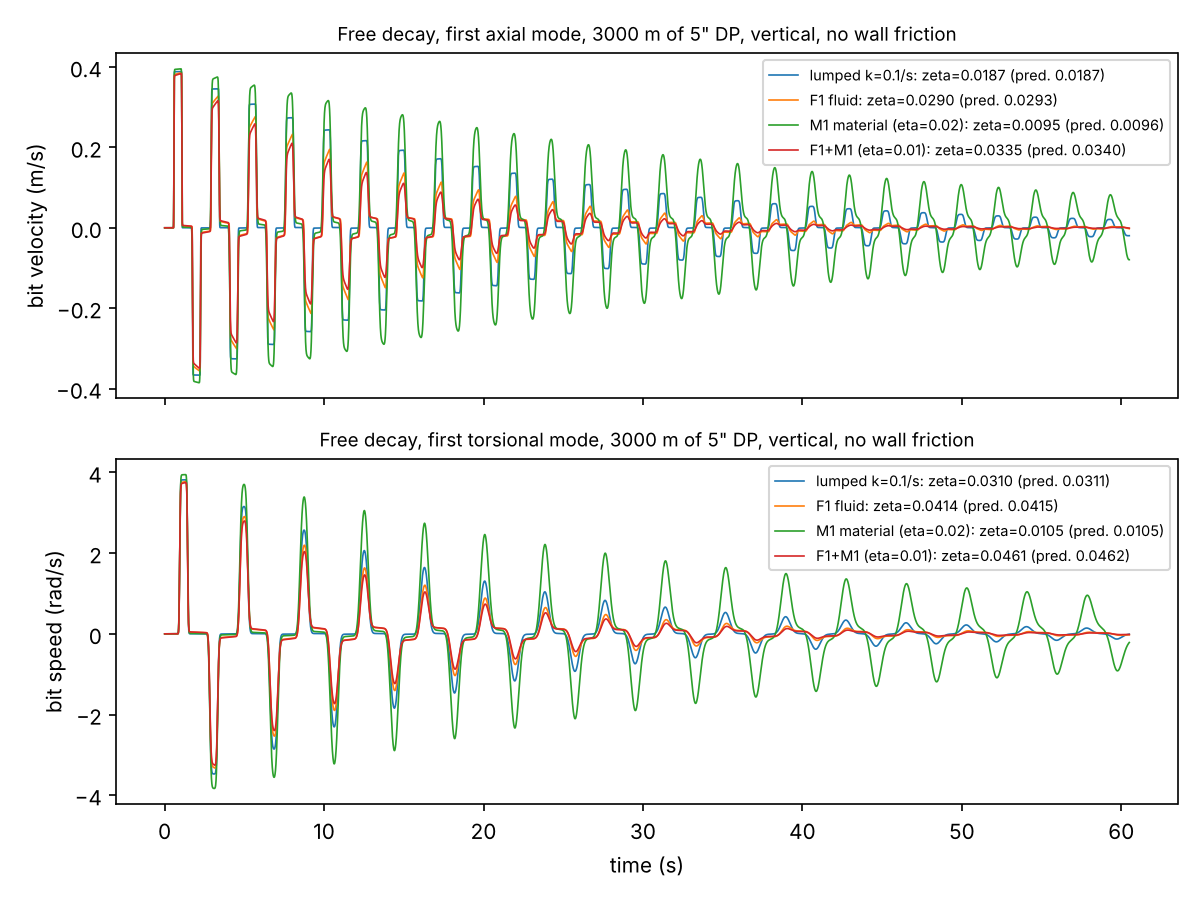
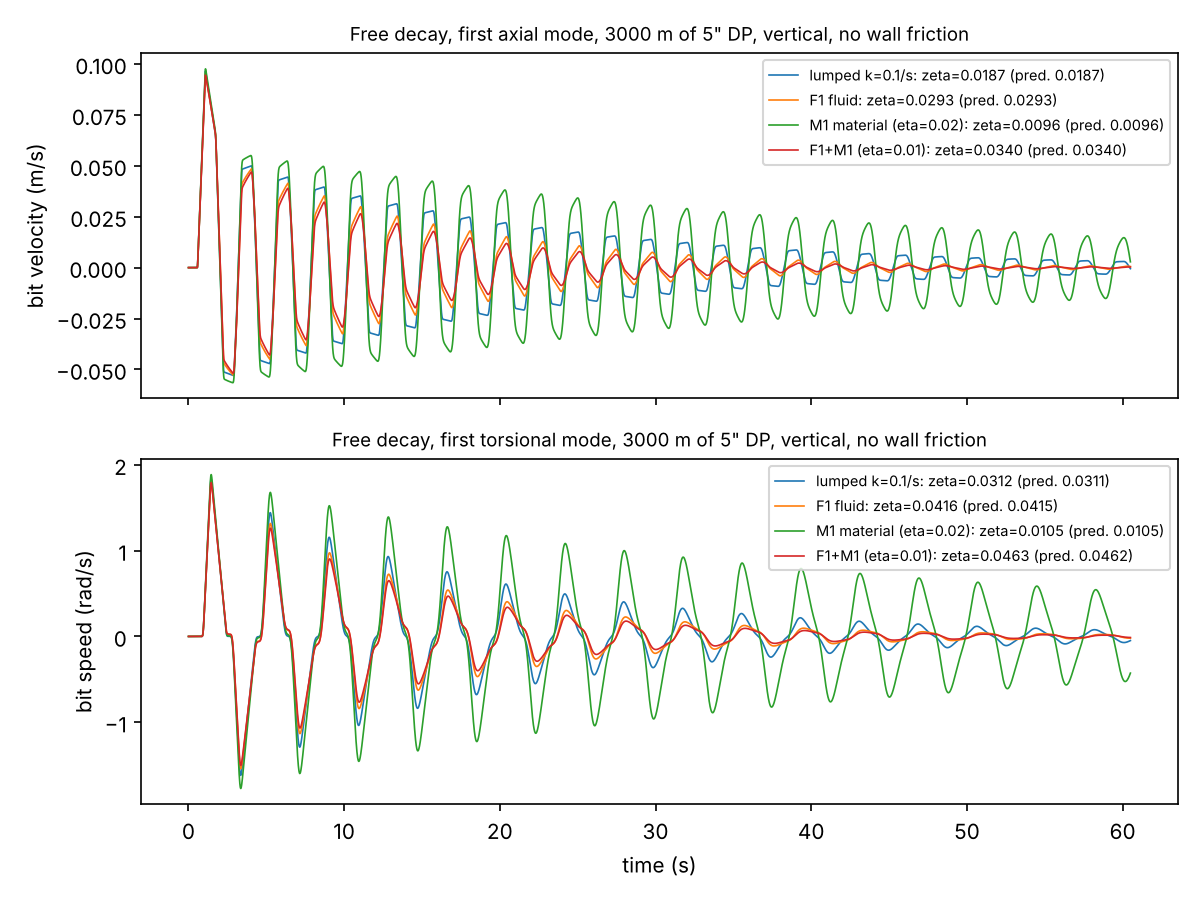
Tests: drop the scipy dependency (CI ImportError)
tests/test_damping.py imported scipy.signal, which is not a dependency, so
CI (pip install -e ".[test]") failed at collection. The free-decay
measurement now uses a numpy-only zero-phase FFT band-pass and analytic-
signal envelope (tests/fixtures.py: bandpass_envelope, decay_ratio). The
record is zero-padded so the circular FFT does not wrap the early transient
onto the tail; the measured damping ratios now match the predictions within
0.5% in all eight cases (was 2% with the Butterworth filter). The damping
verification script uses the same helper; documented values updated.

Verified in a clean venv with only ".[test]" installed: 100 passed.

Claude-Session: https://claude.ai/code/session_01BdbRA8vMTfSkNjxRGyxPeC

diff --git a/tests/fixtures.py b/tests/fixtures.py
@@ -28,3 +28,40 @@ def vertical_well(td=3000.0):
 
 def uniform_string():
     return Drillstring([Component('DP', 100.0, od=5.0 * units.IN, id=4.276 * units.IN)])
+
+
+def bandpass_envelope(y, fs, f_lo, f_hi, pad=4):
+    """
+    Zero-phase band-pass and Hilbert envelope with numpy FFTs only (no scipy):
+    keep the [f_lo, f_hi] band (cosine-tapered edges) and return the magnitude
+    of the analytic signal.  The record is zero-padded ``pad`` times so the
+    circular FFT does not wrap the large early amplitude onto the tail.
+    """
+    y = np.asarray(y, dtype=float)
+    y = y - np.mean(y)
+    n0 = len(y)
+    n = pad * n0
+    Y = np.fft.fft(y, n)
+    f = np.fft.fftfreq(n, 1.0 / fs)
+    af = np.abs(f)
+    bw = 0.2 * (f_hi - f_lo)
+    w = np.zeros(n)
+    w[(af >= f_lo) & (af <= f_hi)] = 1.0
+    lo = (af > f_lo - bw) & (af < f_lo)
+    hi = (af > f_hi) & (af < f_hi + bw)
+    w[lo] = 0.5 * (1 - np.cos(np.pi * (af[lo] - (f_lo - bw)) / bw))
+    w[hi] = 0.5 * (1 + np.cos(np.pi * (af[hi] - f_hi) / bw))
+    # analytic signal: double the positive frequencies, drop the negative ones
+    w = w * np.where(f > 0, 2.0, np.where(f == 0, 1.0, 0.0))
+    return np.abs(np.fft.ifft(Y * w))[:n0]
+
+
+def decay_ratio(t, y, f, t_start=1.0, trim=0.15):
+    """Damping ratio of the mode near ``f`` (Hz) from the log-envelope slope of a free decay."""
+    t = np.asarray(t)
+    m = t > t_start
+    fs = 1.0 / np.median(np.diff(t))
+    env, tt = bandpass_envelope(np.asarray(y)[m], fs, 0.6 * f, 1.4 * f), t[m]
+    span = tt[-1] - tt[0]
+    k = (tt > tt[0] + trim * span) & (tt < tt[-1] - trim * span)
+    return -np.polyfit(tt[k], np.log(env[k]), 1)[0] / (2 * np.pi * f)

diff --git a/docs/derivation/damping_verification.py b/docs/derivation/damping_verification.py
@@ -18,9 +18,8 @@ import matplotlib.pyplot as plt
 
 HERE = os.path.dirname(os.path.abspath(__file__))
 sys.path.insert(0, os.path.join(HERE, '..', '..', 'tests'))
-from fixtures import vertical_well, uniform_string  # noqa: E402
+from fixtures import vertical_well, uniform_string, decay_ratio  # noqa: E402
 from DrillPyze import (Simulation, ModelParameters, FrictionParameters, DampingParameters, Fluid, config)  # noqa: E402
-from scipy.signal import hilbert, butter, sosfiltfilt  # noqa: E402
 
 FIG = os.path.join(HERE, '..', 'figures')
 os.makedirs(FIG, exist_ok=True)
@@ -42,13 +41,7 @@ def free_decay(damping, mode):
         ch, f = 'omega_bit', sim.modal_frequencies()[1]
     r = sim.results()
     t, y = r['time'].values, r[ch].values
-    m = t > 1.0
-    fs = 1.0 / np.median(np.diff(t))
-    yb = sosfiltfilt(butter(2, [0.6 * f, 1.4 * f], btype='band', fs=fs, output='sos'), y[m])
-    env, tt = np.abs(hilbert(yb)), t[m]
-    span = tt[-1] - tt[0]
-    k = (tt > tt[0] + 0.15 * span) & (tt < tt[-1] - 0.15 * span)
-    zeta = -np.polyfit(tt[k], np.log(env[k]), 1)[0] / (2 * np.pi * f)
+    zeta = decay_ratio(t, y, f)
     row = sim.damping_summary().set_index('mode').loc[mode]
     if damping.fluid or damping.loss_factor:
         pred = row['zeta_fluid'] + row['zeta_material'] + row['zeta_numerical']

diff --git a/tests/test_damping.py b/tests/test_damping.py
@@ -1,12 +1,11 @@
 """Verification of the distributed damping models (F1 fluid, M1 material, F2 yield)."""
 import numpy as np
 import pytest
-from scipy.signal import hilbert, butter, sosfiltfilt
 
 from DrillPyze import (Simulation, ModelParameters, FrictionParameters, DampingParameters, Fluid,
                        RampParameters)
 from DrillPyze.kernel import _kv_solve
-from fixtures import vertical_well, uniform_string
+from fixtures import vertical_well, uniform_string, decay_ratio
 
 
 def _sim(damping, fluid=None, hole=3500.0):
@@ -27,14 +26,7 @@ def _decay_ratio(sim, mode):
         sim.step(0.5, omega_td=2.0, v_block=0.0)
         sim.step(60.0, omega_td=0.0)
         y, f = sim.results()['omega_bit'].values, sim.modal_frequencies()[1]
-    t = sim.results()['time'].values
-    m = t > 1.0
-    fs = 1.0 / np.median(np.diff(t))
-    yb = sosfiltfilt(butter(2, [0.6 * f, 1.4 * f], btype='band', fs=fs, output='sos'), y[m])
-    env, tt = np.abs(hilbert(yb)), t[m]
-    span = tt[-1] - tt[0]
-    k = (tt > tt[0] + 0.15 * span) & (tt < tt[-1] - 0.15 * span)
-    return -np.polyfit(tt[k], np.log(env[k]), 1)[0] / (2 * np.pi * f)
+    return decay_ratio(sim.results()['time'].values, y, f)
 
 
 def test_kv_solve_conserves_momentum_and_dissipates():

diff --git a/docs/derivation/README.md b/docs/derivation/README.md
@@ -615,14 +615,15 @@ and 0.025.
 
 **Verification** (`tests/test_damping.py`, `docs/derivation/damping_verification.py`).
 Free decay of the first mode of 3000 m of 5" DP gives measured
-vs (5.12)-predicted damping ratios:
+vs (5.12)-predicted damping ratios. The measured ratio is the slope of the
+log envelope of the FFT band-passed bit velocity (numpy only, zero-padded):
 
 | model | axial measured / predicted | torsional measured / predicted |
 |---|---|---|
-| lumped $k$ = 0.1 /s | 0.0187 / 0.0187 | 0.0310 / 0.0311 |
-| F1 fluid | 0.0290 / 0.0293 | 0.0414 / 0.0415 |
-| M1 material, $\eta$ = 0.02 | 0.0095 / 0.0096 | 0.0105 / 0.0105 |
-| F1 + M1, $\eta$ = 0.01 | 0.0335 / 0.0340 | 0.0461 / 0.0462 |
+| lumped $k$ = 0.1 /s | 0.0187 / 0.0187 | 0.0312 / 0.0311 |
+| F1 fluid | 0.0293 / 0.0293 | 0.0416 / 0.0415 |
+| M1 material, $\eta$ = 0.02 | 0.0096 / 0.0096 | 0.0105 / 0.0105 |
+| F1 + M1, $\eta$ = 0.01 | 0.0340 / 0.0340 | 0.0463 / 0.0462 |
 
 For Well A tripping in at 200 m/h and 0 rpm, the bit-speed range after 30 s
 narrows from 154–248 m/h (lumped $k$ = 0.1 /s) to 172–230 m/h (F1 + M1).
@@ -1012,7 +1013,7 @@ $$
 | ZTorque suppresses the stiff-controller limit cycle | yes |
 | bit breakout torque, TOB/WOB slope, drill-off at constant block | exact / 1% |
 | pause–resume, external Python PI vs internal PI | exact / 2% |
-| free decay of first axial / torsional mode vs (5.12): lumped, F1, M1, F1+M1 | within 2% (8 cases) |
+| free decay of first axial / torsional mode vs (5.12): lumped, F1, M1, F1+M1 | within 0.5% (8 cases) |
 | steady rotation with F1+M1: surface torque = Couette (5.6) only | within 2% |
 | yield drag (5.9) with pumps off; absent with pumps on | within 5% |
 | Kelvin–Voigt solve conserves momentum, dissipates energy | to $10^{-12}$ |

diff --git a/README.md b/README.md
@@ -287,7 +287,7 @@ The 2023 prototype ran at about 2× real time on a shorter 2,100 m string.
   * every bit model drills off WOB at a fixed block position;
 * Damping:
   * measured free-decay damping ratios of the first axial and torsional modes
-    match the predictions within 2% (lumped, fluid, material, combined);
+    match the predictions within 0.5% (lumped, fluid, material, combined);
   * steady rotation sees only the Couette drag;
   * the yield drag applies with the pumps off only;
   * the Kelvin–Voigt solve conserves momentum;
